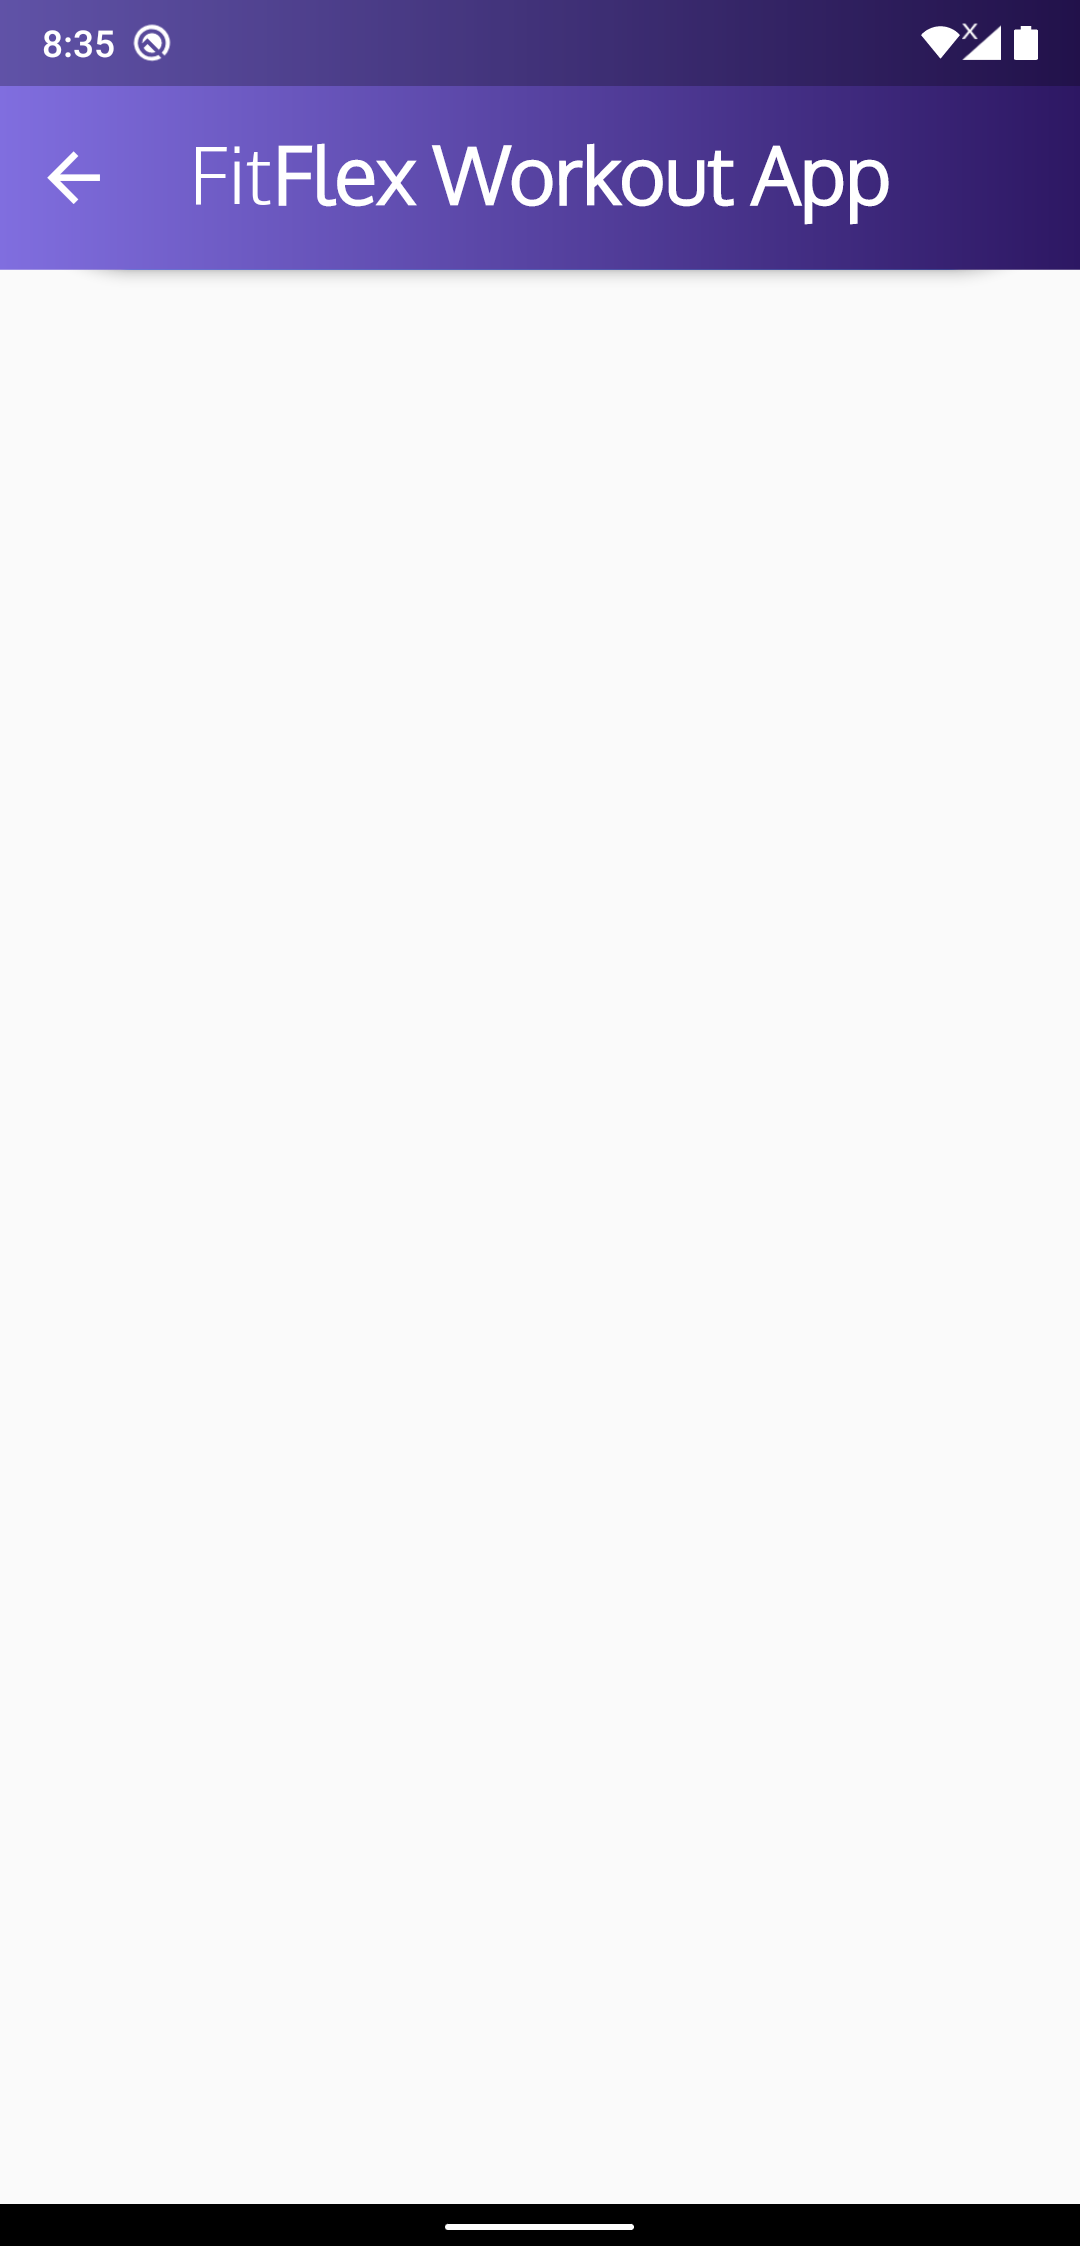
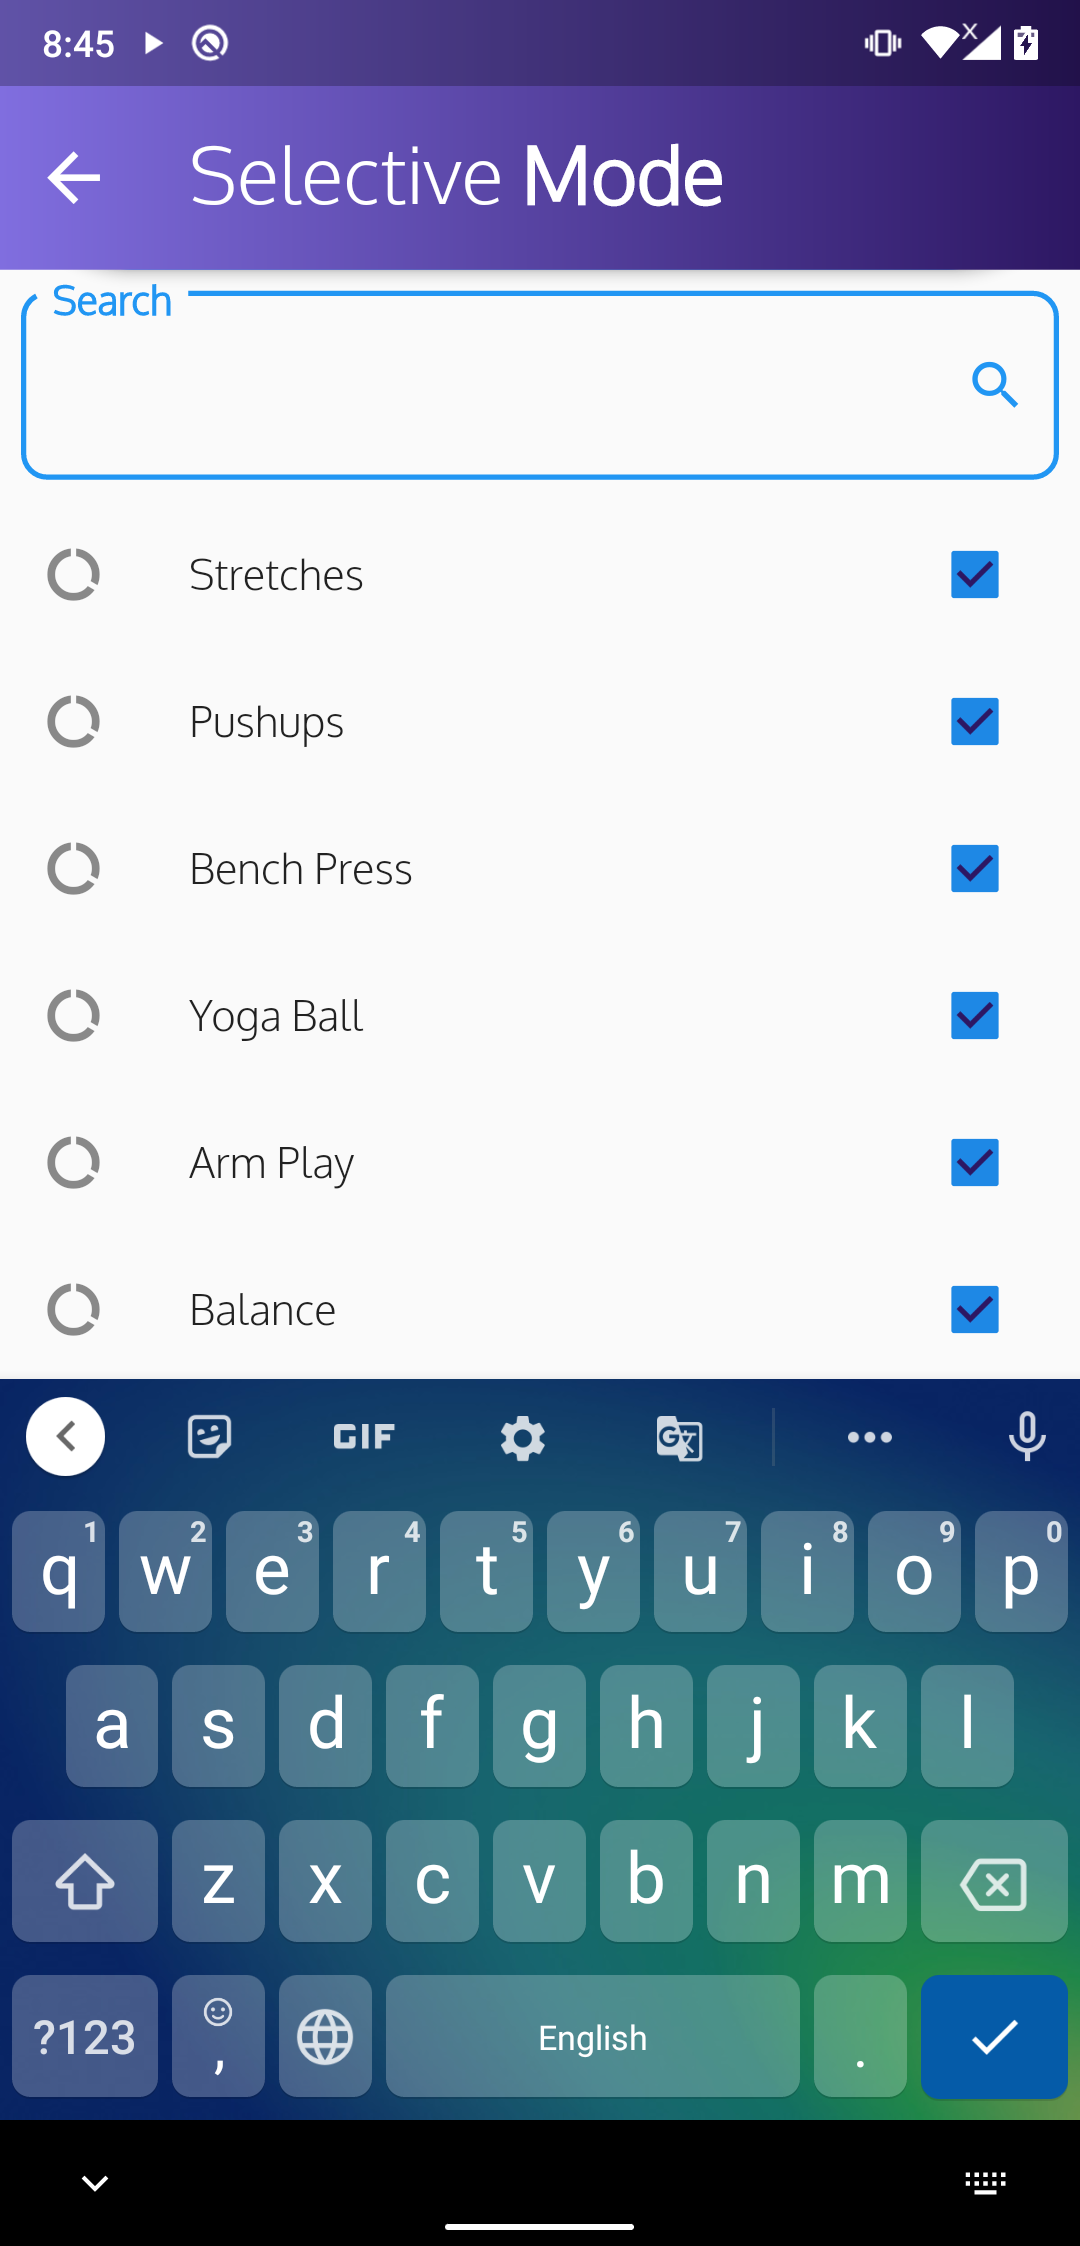
startedselective

diff --git a/lib/Screens/SelectiveScreen.dart b/lib/Screens/SelectiveScreen.dart
@@ -1,0 +1,134 @@
+import 'package:flutter/material.dart';
+import 'package:gradient_app_bar/gradient_app_bar.dart';
+import 'package:myworkout_app/datamodel/randomexlist.dart';
+class SelectiveScreen extends StatefulWidget {
+  @override
+  _SelectiveScreenState createState() => _SelectiveScreenState();
+}
+
+
+class _SelectiveScreenState extends State<SelectiveScreen> {
+  TextEditingController searchController;
+  List<randomexelist> bodylist;
+  var searchresult=List<randomexelist>();
+  @override
+  void initState(){
+    super.initState();
+    bodylist=randomlist;
+    searchresult.addAll(bodylist);
+  }
+
+  @override
+  Widget build(BuildContext context) {
+     return WillPopScope(
+      onWillPop:_onAppExit,
+      child: Scaffold(
+        appBar: PreferredSize(
+            preferredSize:Size.fromHeight(70),
+            child: GradientAppBar(
+            shape: RoundedRectangleBorder(
+              borderRadius: BorderRadius.circular(70)
+            ),  
+            leading: Padding(
+              padding: EdgeInsets.only(top:12),
+              child: IconButton(
+              icon: Icon(Icons.arrow_back,color:Colors.white,size: 30.0,),
+              onPressed: _onAppExit,
+              ),
+            ),
+            title: Padding(
+              padding: EdgeInsets.only(top:10),
+              child: Row(
+                  children: <Widget>[  
+                  Text("Selective",style:TextStyle(fontWeight: FontWeight.normal,fontFamily: "Oxygen-light",fontSize: 30.0),),
+                  Text(" Mode",style:TextStyle(fontWeight: FontWeight.bold,fontFamily: "Oxygen-light",fontSize: 30.0),),
+                ],
+              ) ,
+            ), 
+            gradient: LinearGradient(colors: [Color(0xFF806EDF),Color(0xFF2D1763)]),
+            
+          ),
+        ),
+        body:Container(
+          child:Column(
+            children: <Widget>[
+              Padding(
+                padding: const EdgeInsets.all(8.0),
+                child: TextField(
+                  cursorColor: Color(0xFF2D1763),
+                  controller:searchController ,
+                  onChanged:(searchstring){
+                    _onSearched(searchstring);
+                  },
+                  enableSuggestions:true,
+                  decoration: InputDecoration(
+                    suffixIcon:Icon(Icons.search) ,
+                    labelStyle:TextStyle(fontWeight: FontWeight.bold,fontSize: 20),
+                    labelText: "Search",
+                    focusColor: Color(0xFF2D1763),
+                    fillColor: Color(0xFF2D1763),
+                    border: OutlineInputBorder(
+                      borderSide: BorderSide(color:Color(0xFF2D1763) ),
+                      borderRadius: BorderRadius.circular(10),  
+                    )
+                  ),
+                  style: TextStyle(
+                    fontWeight: FontWeight.bold,
+                    fontSize: 20,
+                    color: Color(0xFF2D1763)
+                    
+                  ),
+
+                ),
+              ),
+              Expanded(
+                child: ListView.builder(
+                  itemCount: searchresult.length,
+                  itemBuilder: (context,i)=>ListTile(
+                    enabled: true,
+                    leading: Icon(Icons.data_usage),
+                    title: Text(searchresult[i].exercisename,),
+                    trailing: Checkbox(
+                      checkColor: Color(0xFF2D1763),
+                      onChanged:(value){
+                        
+                      },
+                      value: true,
+                    ),
+                  ),
+                ),
+              )
+            ],
+          )
+        ), 
+        )
+      );
+  }
+  void _onSearched(String searchString){
+    List<randomexelist> searchlist=new List<randomexelist>();
+    searchlist.addAll(bodylist);
+    if(searchString.isNotEmpty){
+      List<randomexelist> resultlist=new List<randomexelist>();
+      for(int i=0;i<searchlist.length;i++){
+        if(searchlist[i].exercisename.toLowerCase().contains(searchString.toLowerCase())){
+          resultlist.add(searchlist[i]);
+        }
+      }
+      setState(() {
+        searchresult.clear();
+        searchresult.addAll(resultlist);
+      });
+      return;
+    }
+    else{
+      setState(() {
+        searchresult.clear();
+        searchresult.addAll(bodylist);
+      });
+    }
+  }
+  Future<bool> _onAppExit(){
+    Navigator.pop(context);
+    
+  }
+}

diff --git a/lib/Screens/RandomScreen.dart b/lib/Screens/RandomScreen.dart
@@ -13,15 +13,15 @@ import 'package:wakelock/wakelock.dart';
 import 'package:after_layout/after_layout.dart';
 
 
-class Exercise extends StatefulWidget {
+class RandomScreen extends StatefulWidget {
   final String exercisemode;
   final int setcount;
   bool exestarted;
   List<randomexelist> generatedList;
   
-  Exercise({this.exercisemode,this.setcount,this.exestarted,this.generatedList});
+  RandomScreen({this.exercisemode,this.setcount,this.exestarted,this.generatedList});
   @override
-  _ExerciseState createState() => _ExerciseState(exercisemode,setcount,exestarted,generatedList);
+  _RandomScreenState createState() => _RandomScreenState(exercisemode,setcount,exestarted,generatedList);
 
 
   void afterFirstLayout(BuildContext context) {
@@ -46,7 +46,7 @@ class Exercise extends StatefulWidget {
 
 
 
-class _ExerciseState extends State<Exercise> with TickerProviderStateMixin {
+class _RandomScreenState extends State<RandomScreen> with TickerProviderStateMixin {
   // final GlobalKey<AnimatedTimerState> animatedStateKey1 = GlobalKey<AnimatedTimerState>();
   // final GlobalKey<AnimatedTimerState> animatedStateKey2 = GlobalKey<AnimatedTimerState>();
   // final GlobalKey<AnimatedTimerState> animatedStateKey3 = GlobalKey<AnimatedTimerState>();
@@ -63,7 +63,7 @@ class _ExerciseState extends State<Exercise> with TickerProviderStateMixin {
 
   final TextStyle _lightstyle=TextStyle(fontFamily:"Oxygen-light",fontWeight:FontWeight.normal,fontSize: 18.0);
   final TextStyle _boldstyle=TextStyle(fontFamily:"Oxygen-light",fontWeight:FontWeight.bold,fontSize: 18.0);
-  _ExerciseState(this.exercisemode,this.setcount,this.exestarted,this.generatedList);
+  _RandomScreenState(this.exercisemode,this.setcount,this.exestarted,this.generatedList);
   
   
   

diff --git a/lib/Screens/Dashboard.dart b/lib/Screens/Dashboard.dart
@@ -1,10 +1,12 @@
 import 'package:flutter/material.dart';
 import 'package:flutter/services.dart';
 import 'package:gradient_app_bar/gradient_app_bar.dart';
-import 'package:myworkout_app/Screens/Exercise.dart';
+import 'package:myworkout_app/Screens/RandomScreen.dart';
 import 'package:myworkout_app/datamodel/exercisemodes.dart';
 import 'package:myworkout_app/datamodel/randomexlist.dart';
 import 'package:numberpicker/numberpicker.dart';
+import 'SelectiveScreen.dart';
+import 'DailyScreen.dart';
 
 class Dashbaord extends StatefulWidget {
   
@@ -360,7 +362,9 @@ class _DashbaordState extends State<Dashbaord> {
                 onPressed: (){
                 Navigator.pop(context);
                 Navigator.push(context, MaterialPageRoute(
-                                  builder: (context)=>Exercise(exercisemode: modename,exestarted: false,setcount: _setcount,generatedList:generatedList,)
+                                  builder:modename=="Random"?(context)=>RandomScreen(exercisemode: modename,exestarted: false,setcount: _setcount,generatedList:generatedList,)
+                                  :modename=="Selective"?(context)=>SelectiveScreen()
+                                  :(context)=>DailyScreen(),
                                 ));
                 }
                 

diff --git a/lib/Widgets/PopDialog.dart b/lib/Widgets/PopDialog.dart
@@ -3,8 +3,9 @@ import 'package:flutter/material.dart';
 import '../datamodel/randomexlist.dart';
 import 'package:audioplayers/audioplayers.dart';
 import 'package:audioplayers/audio_cache.dart';
-import '../Screens/Exercise.dart';
+import '../Screens/RandomScreen.dart';
 import 'package:wakelock/wakelock.dart';
+import '../Screens/SelectiveScreen.dart';
 class PopDialog extends StatefulWidget {
   Timer timer;
   int popMaxValue;
@@ -65,7 +66,8 @@ class _PopDialogState extends State<PopDialog> {
           Navigator.pop(context);
           Wakelock.enable();
           Navigator.push(context, MaterialPageRoute(
-            builder: (context)=>Exercise(exercisemode: exercisemode,exestarted: true,setcount: setcount,generatedList: randomexelist,),
+            builder: (context)=>RandomScreen(exercisemode: exercisemode,exestarted: true,setcount: setcount,generatedList: randomexelist,),
+          
           ));
          
           // animatedStateKey.currentState.animationController.reverse(

diff --git a/lib/Screens/DailyScreen.dart b/lib/Screens/DailyScreen.dart
@@ -1,0 +1,14 @@
+import 'package:flutter/material.dart';
+class DailyScreen extends StatefulWidget {
+  @override
+  _DailyScreenState createState() => _DailyScreenState();
+}
+
+class _DailyScreenState extends State<DailyScreen> {
+  @override
+  Widget build(BuildContext context) {
+    return Container(
+      
+    );
+  }
+}

diff --git a/lib/Screens/CountDown/AnimatedTimer.dart b/lib/Screens/CountDown/AnimatedTimer.dart
@@ -1,5 +1,5 @@
 import 'package:audioplayers/audio_cache.dart';
-import '../Exercise.dart';
+import '../RandomScreen.dart';
 import 'package:audioplayers/audioplayers.dart';
 import 'package:flutter/material.dart';
 import 'package:wakelock/wakelock.dart';
